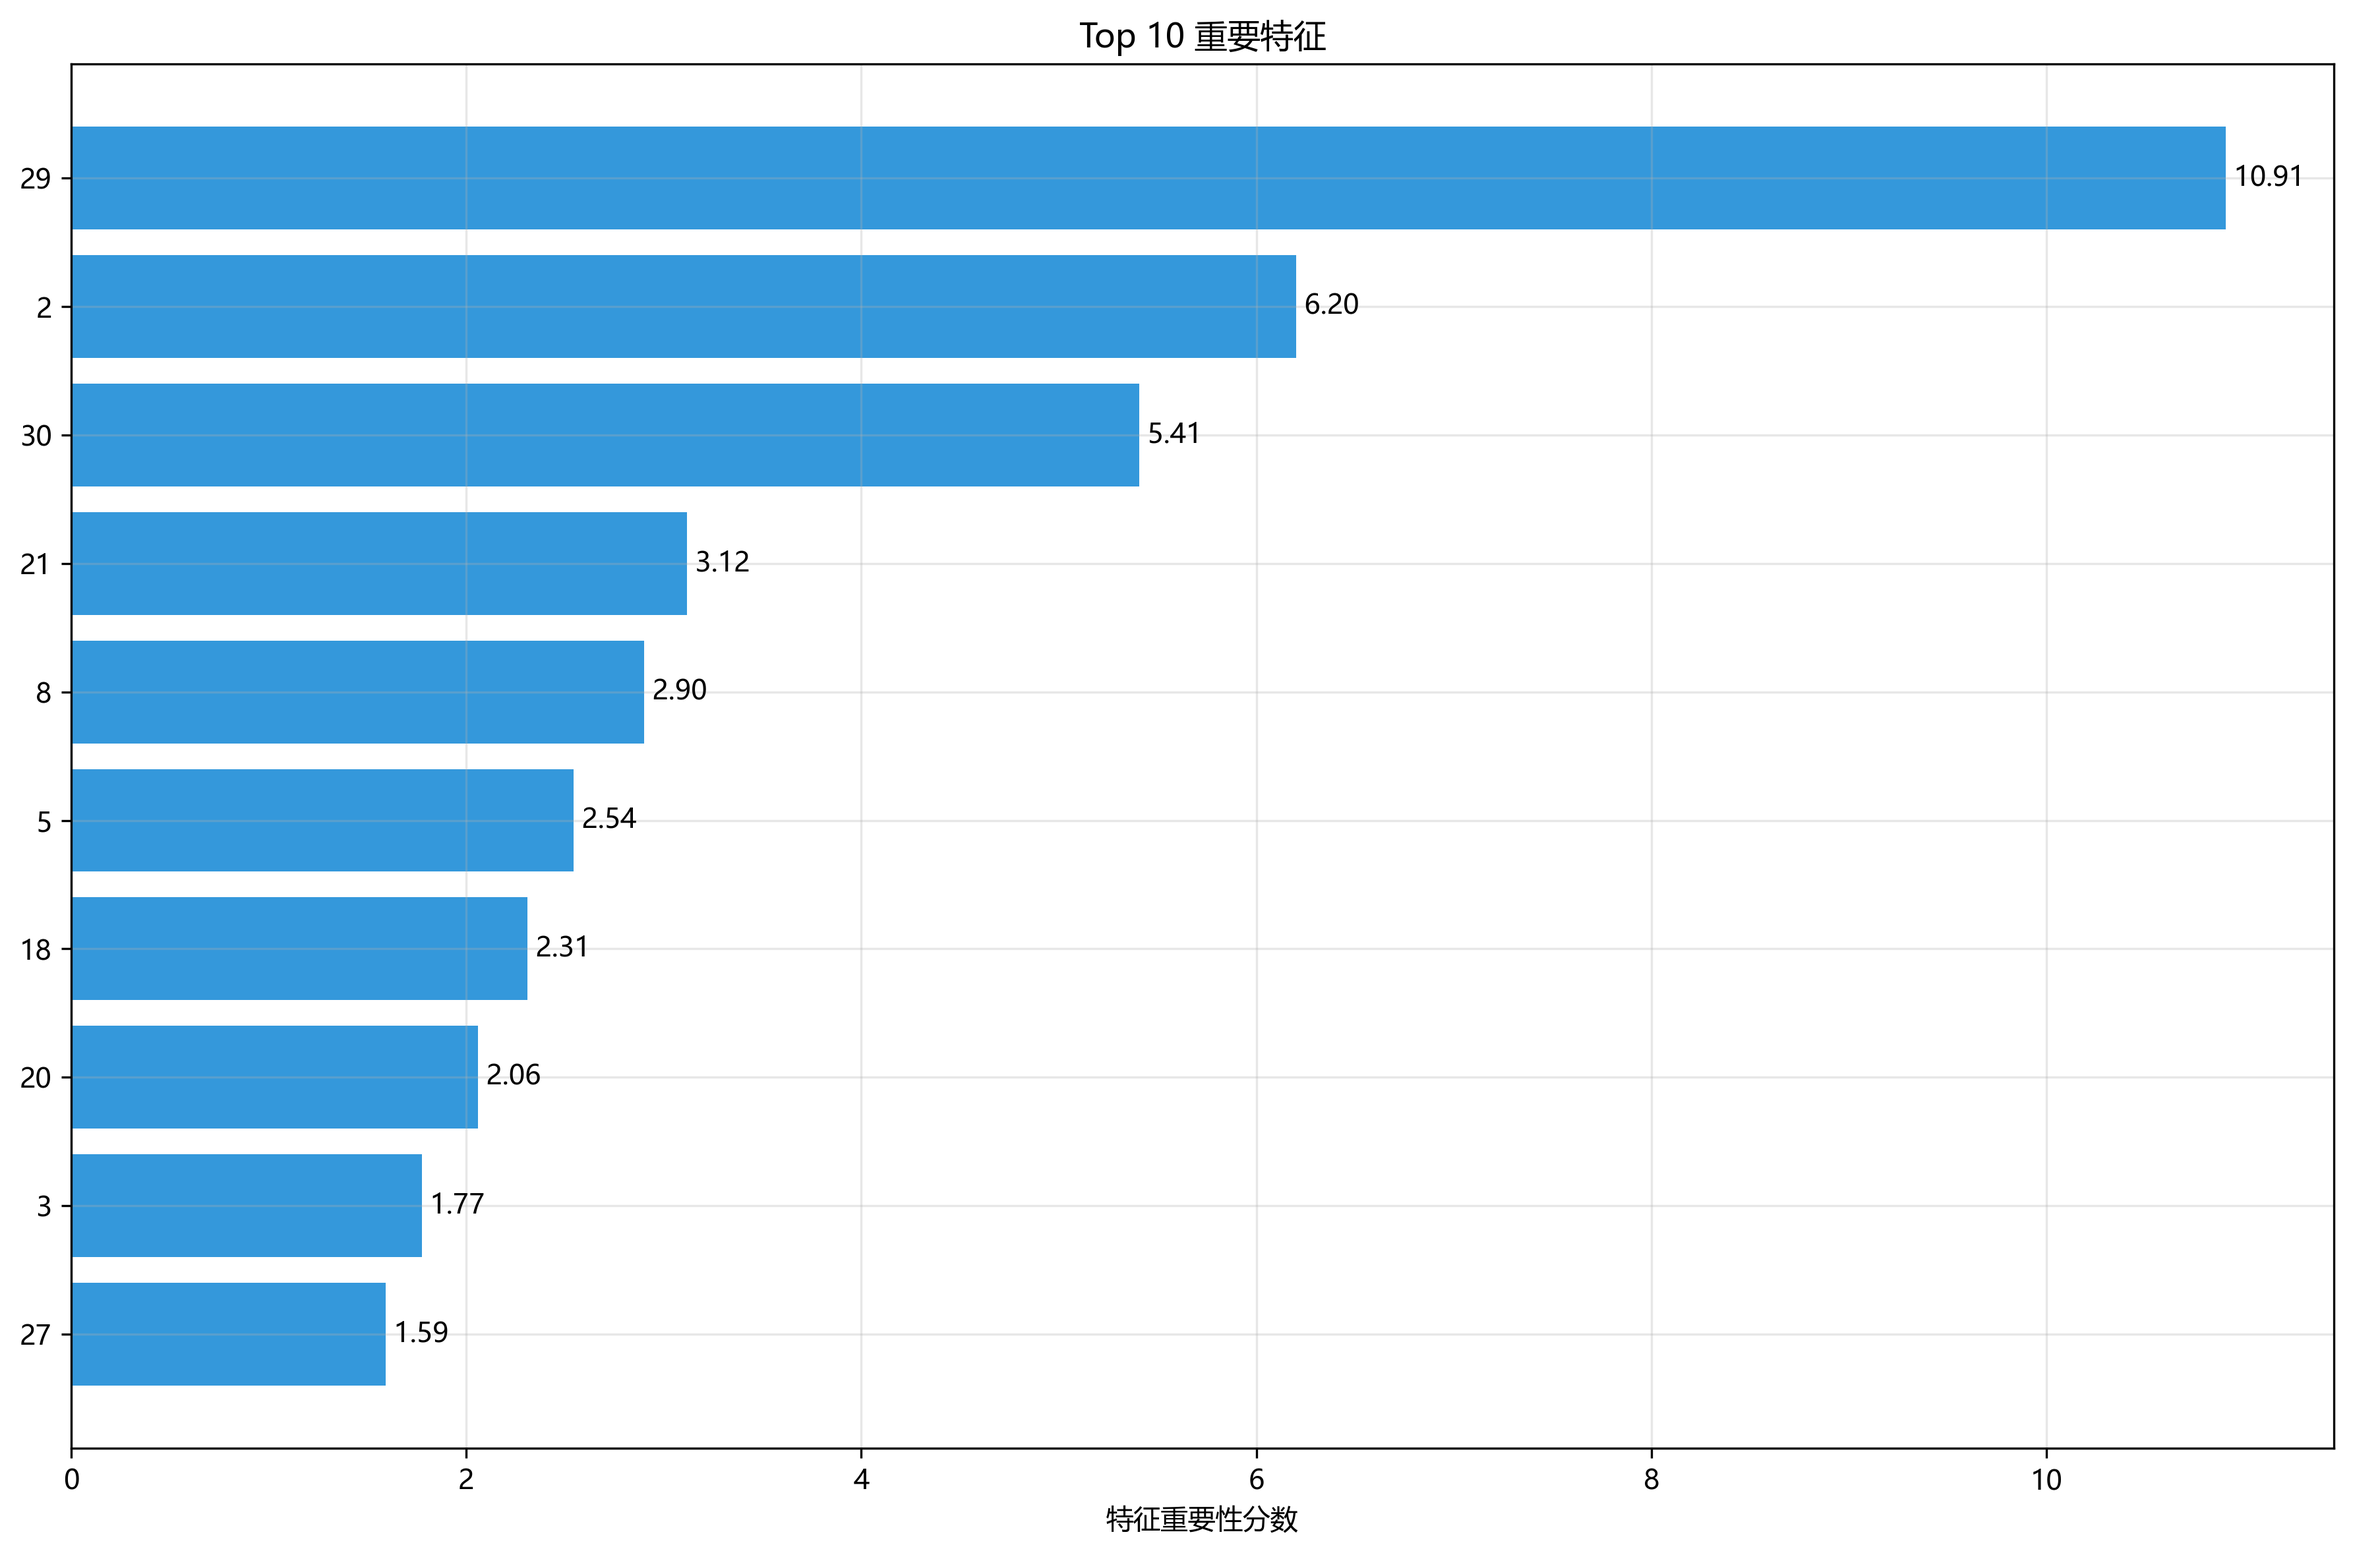
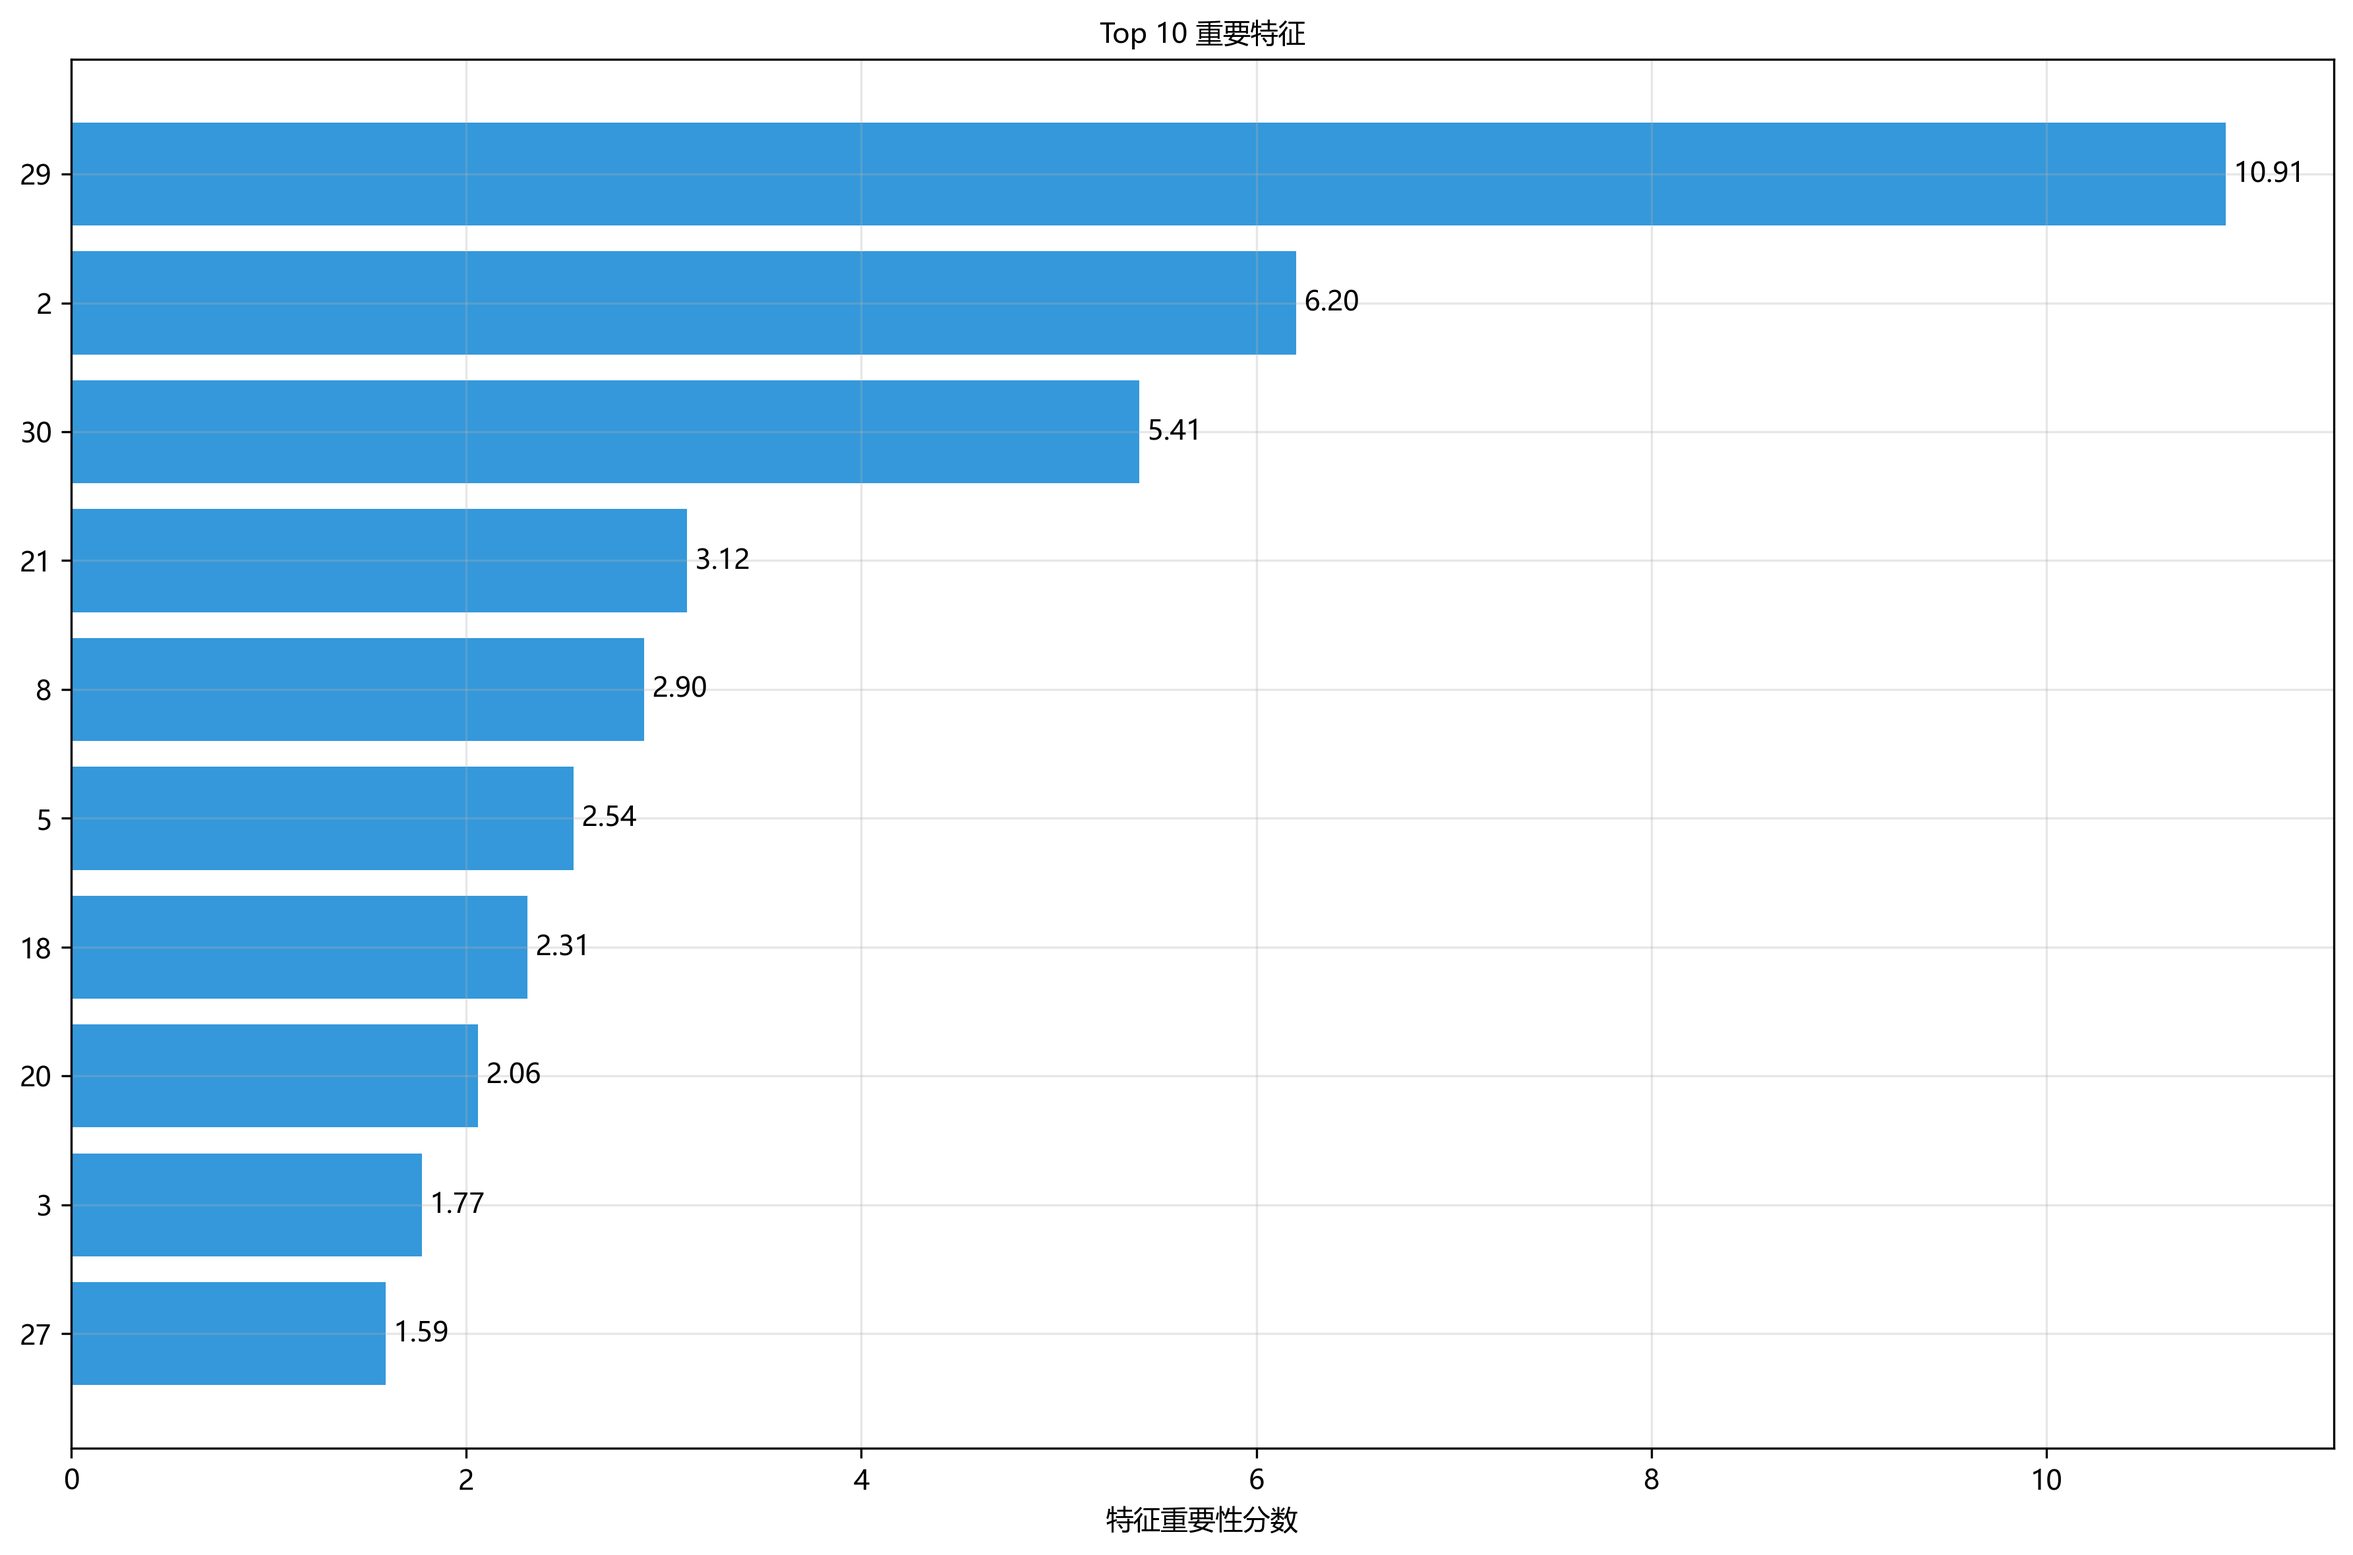
更新 ljf 项目

diff --git a/student-academic-prediction-system/src/warning/reporting.py b/student-academic-prediction-system/src/warning/reporting.py
@@ -12,7 +12,7 @@ import seaborn as sns
 from sklearn.metrics import classification_report, confusion_matrix
 
 from src.shared.io import save_json, save_text
-from src.shared.plotting import save_figure, safe_close
+from src.shared.plotting import save_figure, safe_close, ZH_FONT
 
 
 
@@ -23,15 +23,15 @@ def plot_risk_distribution(y_class, output_path='reports/warning_optimized/risk_
 
     ax = plt.subplot(1, 2, 1)
     bars = plt.bar(counts.index, counts.values, color=[colors[risk] for risk in counts.index])
-    plt.title('风险类别分布')
-    plt.ylabel('学生人数')
+    plt.title('风险类别分布', fontproperties=ZH_FONT)
+    plt.ylabel('学生人数', fontproperties=ZH_FONT)
     for bar in bars:
         height = bar.get_height()
         plt.text(bar.get_x() + bar.get_width() / 2., height, f'{int(height)}', ha='center', va='bottom')
 
     plt.subplot(1, 2, 2)
     plt.pie(counts.values, labels=counts.index, autopct='%1.1f%%', colors=[colors[risk] for risk in counts.index])
-    plt.title('风险类别占比')
+    plt.title('风险类别占比', fontproperties=ZH_FONT)
     plt.tight_layout()
     save_figure(fig, output_path)
     safe_close(fig)
@@ -47,8 +47,8 @@ def plot_model_comparison(comparison_data, output_path='reports/warning_optimize
 
     test_acc = [float(x) for x in df_comparison['测试准确率']]
     bars1 = axes[0, 0].barh(models, test_acc, color=colors)
-    axes[0, 0].set_xlabel('测试准确率')
-    axes[0, 0].set_title('模型测试准确率对比')
+    axes[0, 0].set_xlabel('测试准确率', fontproperties=ZH_FONT)
+    axes[0, 0].set_title('模型测试准确率对比', fontproperties=ZH_FONT)
     axes[0, 0].axvline(x=0.5, color='red', linestyle='--', alpha=0.5, label='基准线')
     for bar in bars1:
         width = bar.get_width()
@@ -56,14 +56,14 @@ def plot_model_comparison(comparison_data, output_path='reports/warning_optimize
 
     overfit = [float(x) for x in df_comparison['过拟合程度']]
     axes[0, 1].barh(models, overfit, color=colors)
-    axes[0, 1].set_xlabel('过拟合程度 (训练-测试)')
-    axes[0, 1].set_title('模型过拟合程度')
+    axes[0, 1].set_xlabel('过拟合程度 (训练-测试)', fontproperties=ZH_FONT)
+    axes[0, 1].set_title('模型过拟合程度', fontproperties=ZH_FONT)
     axes[0, 1].axvline(x=0, color='green', linestyle='--', alpha=0.5)
 
     f1_scores = [float(x) for x in df_comparison['F1分数']]
     axes[1, 0].barh(models, f1_scores, color=colors)
-    axes[1, 0].set_xlabel('F1分数')
-    axes[1, 0].set_title('模型F1分数对比')
+    axes[1, 0].set_xlabel('F1分数', fontproperties=ZH_FONT)
+    axes[1, 0].set_title('模型F1分数对比', fontproperties=ZH_FONT)
 
     cv_means = []
     cv_stds = []
@@ -79,9 +79,9 @@ def plot_model_comparison(comparison_data, output_path='reports/warning_optimize
 
     x_pos = np.arange(len(models))
     axes[1, 1].bar(x_pos, cv_means, yerr=cv_stds, capsize=5, color=colors, alpha=0.7)
-    axes[1, 1].set_xlabel('模型')
-    axes[1, 1].set_ylabel('交叉验证准确率')
-    axes[1, 1].set_title('交叉验证结果（均值±标准差）')
+    axes[1, 1].set_xlabel('模型', fontproperties=ZH_FONT)
+    axes[1, 1].set_ylabel('交叉验证准确率', fontproperties=ZH_FONT)
+    axes[1, 1].set_title('交叉验证结果（均值±标准差）', fontproperties=ZH_FONT)
     axes[1, 1].set_xticks(x_pos)
     axes[1, 1].set_xticklabels(models, rotation=45, ha='right')
     axes[1, 1].axhline(y=0.5, color='red', linestyle='--', alpha=0.5)
@@ -96,9 +96,9 @@ def plot_confusion_matrix(y_true, y_pred, output_path='reports/warning_optimized
     cm = confusion_matrix(y_true, y_pred)
     fig = plt.figure(figsize=(8, 6))
     sns.heatmap(cm, annot=True, fmt='d', cmap='Blues', xticklabels=np.unique(y_true), yticklabels=np.unique(y_true))
-    plt.title('混淆矩阵')
-    plt.ylabel('真实标签')
-    plt.xlabel('预测标签')
+    plt.title('混淆矩阵', fontproperties=ZH_FONT)
+    plt.ylabel('真实标签', fontproperties=ZH_FONT)
+    plt.xlabel('预测标签', fontproperties=ZH_FONT)
     plt.tight_layout()
     save_figure(fig, output_path)
     safe_close(fig)
@@ -115,9 +115,9 @@ def plot_high_risk_analysis(high_risk_students, X_all, output_path='reports/warn
 
     plt.subplot(2, 2, 1)
     plt.hist(high_risk_probs, bins=10, edgecolor='black', alpha=0.7, color='#ff6b6b')
-    plt.xlabel('高风险概率')
-    plt.ylabel('学生数量')
-    plt.title('高风险学生概率分布')
+    plt.xlabel('高风险概率', fontproperties=ZH_FONT)
+    plt.ylabel('学生数量', fontproperties=ZH_FONT)
+    plt.title('高风险学生概率分布', fontproperties=ZH_FONT)
     plt.grid(True, alpha=0.3)
 
     sample_student = high_risk_students[0]
@@ -126,23 +126,23 @@ def plot_high_risk_analysis(high_risk_students, X_all, output_path='reports/warn
     colors = ['#ff6b6b', '#ffd166', '#06d6a0']
     plt.subplot(2, 2, 2)
     plt.bar(risk_labels, risk_probs, color=colors, alpha=0.7)
-    plt.ylabel('概率')
-    plt.title(f"学生 {sample_student['学生ID']} 的风险分布")
+    plt.ylabel('概率', fontproperties=ZH_FONT)
+    plt.title(f"学生 {sample_student['学生ID']} 的风险分布", fontproperties=ZH_FONT)
 
     plt.subplot(2, 2, 3)
     plt.scatter(range(len(feature_means)), feature_means, alpha=0.6, color='#3498db')
     plt.axhline(y=X_all.mean().mean(), color='red', linestyle='--', label='全体平均')
-    plt.xlabel('学生排名')
-    plt.ylabel('特征均值')
-    plt.title('高风险学生特征均值')
+    plt.xlabel('学生排名', fontproperties=ZH_FONT)
+    plt.ylabel('特征均值', fontproperties=ZH_FONT)
+    plt.title('高风险学生特征均值', fontproperties=ZH_FONT)
     plt.legend()
     plt.grid(True, alpha=0.3)
 
     plt.subplot(2, 2, 4)
     plt.scatter(feature_means, high_risk_probs, alpha=0.6, color='#9b59b6')
-    plt.xlabel('特征均值')
-    plt.ylabel('高风险概率')
-    plt.title('特征均值 vs 高风险概率')
+    plt.xlabel('特征均值', fontproperties=ZH_FONT)
+    plt.ylabel('高风险概率', fontproperties=ZH_FONT)
+    plt.title('特征均值 vs 高风险概率', fontproperties=ZH_FONT)
     if len(feature_means) > 1:
         coefficients = np.polyfit(feature_means, high_risk_probs, 1)
         line = np.poly1d(coefficients)

diff --git a/student-academic-prediction-system/src/shared/plotting.py b/student-academic-prediction-system/src/shared/plotting.py
@@ -8,8 +8,7 @@ from matplotlib import font_manager
 import matplotlib.pyplot as plt
 
 
-def _setup_chinese_font():
-    """优先使用本机真实存在的中文字体文件"""
+def _load_chinese_font():
     candidate_fonts = [
         r"C:\Windows\Fonts\msyh.ttc",      # 微软雅黑
         r"C:\Windows\Fonts\msyhbd.ttc",
@@ -20,17 +19,21 @@ def _setup_chinese_font():
     for font_path in candidate_fonts:
         if os.path.exists(font_path):
             font_manager.fontManager.addfont(font_path)
-            font_name = font_manager.FontProperties(fname=font_path).get_name()
-            matplotlib.rcParams["font.family"] = font_name
+            font_prop = font_manager.FontProperties(fname=font_path)
+            font_name = font_prop.get_name()
+
+            matplotlib.rcParams["font.family"] = "sans-serif"
             matplotlib.rcParams["font.sans-serif"] = [font_name]
             matplotlib.rcParams["axes.unicode_minus"] = False
-            print(f"✅ 已加载中文字体: {font_name} -> {font_path}")
-            return
 
-    print("⚠ 未找到可用中文字体，图片中的中文可能显示为方框")
+            print(f"✅ 已加载中文字体: {font_name}")
+            return font_prop
+
+    print("⚠ 未找到可用中文字体，中文可能显示为方框")
+    return None
 
 
-_setup_chinese_font()
+ZH_FONT = _load_chinese_font()
 
 
 def save_figure(fig, path, dpi=300, bbox_inches='tight'):

diff --git a/student-academic-prediction-system/app/web_app.py b/student-academic-prediction-system/app/web_app.py
@@ -12,6 +12,7 @@ import seaborn as sns
 from datetime import datetime
 import sys
 from pathlib import Path
+from src.shared.plotting import ZH_FONT
 
 CURRENT_DIR = Path(__file__).resolve().parent
 PROJECT_ROOT = CURRENT_DIR.parent
@@ -181,9 +182,9 @@ if page == "📊 仪表板":
         with col1:
             fig, ax = plt.subplots(figsize=(10, 6))
             ax.hist(df['GRADE'], bins=20, edgecolor='black', alpha=0.7, color='#3B82F6')
-            ax.set_xlabel('成绩')
-            ax.set_ylabel('学生人数')
-            ax.set_title('学生成绩分布')
+            ax.set_xlabel('成绩', fontproperties=ZH_FONT)
+            ax.set_ylabel('学生人数', fontproperties=ZH_FONT)
+            ax.set_title('学生成绩分布', fontproperties=ZH_FONT)
             ax.grid(True, alpha=0.3)
             st.pyplot(fig)
 
@@ -197,7 +198,9 @@ if page == "📊 仪表板":
                 autopct='%1.1f%%',
                 colors=risk_distribution['colors'],
                 startangle=90,
+                textprops={'fontproperties': ZH_FONT}
             )
+            ax.set_title('风险类别分布', fontproperties=ZH_FONT)
             ax.set_title('风险类别分布')
             st.pyplot(fig)
 

diff --git a/student-academic-prediction-system/src/warning/features.py b/student-academic-prediction-system/src/warning/features.py
@@ -2,8 +2,8 @@ import numpy as np
 import pandas as pd
 from sklearn.feature_selection import SelectKBest, f_classif
 import matplotlib.pyplot as plt
+from src.shared.plotting import save_figure, safe_close, ZH_FONT
 
-from src.shared.plotting import save_figure, safe_close
 
 
 def select_k_best_features(X, y_class, k=10):
@@ -28,9 +28,9 @@ def plot_feature_importance(features, scores, output_path='reports/warning_optim
     top_scores = sorted_scores[:n_show]
 
     plt.barh(range(n_show), top_scores[::-1], color='#3498db')
-    plt.yticks(range(n_show), top_features[::-1])
-    plt.xlabel('特征重要性分数')
-    plt.title(f'Top {n_show} 重要特征')
+    plt.yticks(range(n_show), top_features[::-1], fontproperties=ZH_FONT)
+    plt.xlabel('特征重要性分数', fontproperties=ZH_FONT)
+    plt.title(f'Top {n_show} 重要特征', fontproperties=ZH_FONT)
     plt.grid(True, alpha=0.3)
 
     for index, score in enumerate(top_scores[::-1]):

diff --git a/student-academic-prediction-system/reports/final_report.md b/student-academic-prediction-system/reports/final_report.md
@@ -1,7 +1,7 @@
 # 学生学业预测系统 - 阶段1报告
 
 ## 报告信息
-- 生成时间: 2026-03-21 16:41:21
+- 生成时间: 2026-03-21 21:13:45
 - 阶段: 数据预处理 + 基础模型训练
 
 ## 数据概况
@@ -92,4 +92,4 @@
 
 ---
 
-*报告自动生成于 2026-03-21 16:41:21*
+*报告自动生成于 2026-03-21 21:13:45*

diff --git a/student-academic-prediction-system/reports/warning_optimized/detailed_report.md b/student-academic-prediction-system/reports/warning_optimized/detailed_report.md
@@ -1,7 +1,7 @@
 # 学生学业预警系统 - 优化版报告
 
 ## 报告信息
-- 生成时间: 2026-03-21 16:36:55
+- 生成时间: 2026-03-21 21:14:02
 - 数据来源: 145名学生的学业数据
 - 版本: 优化版（减少过拟合，增加交叉验证）
 
